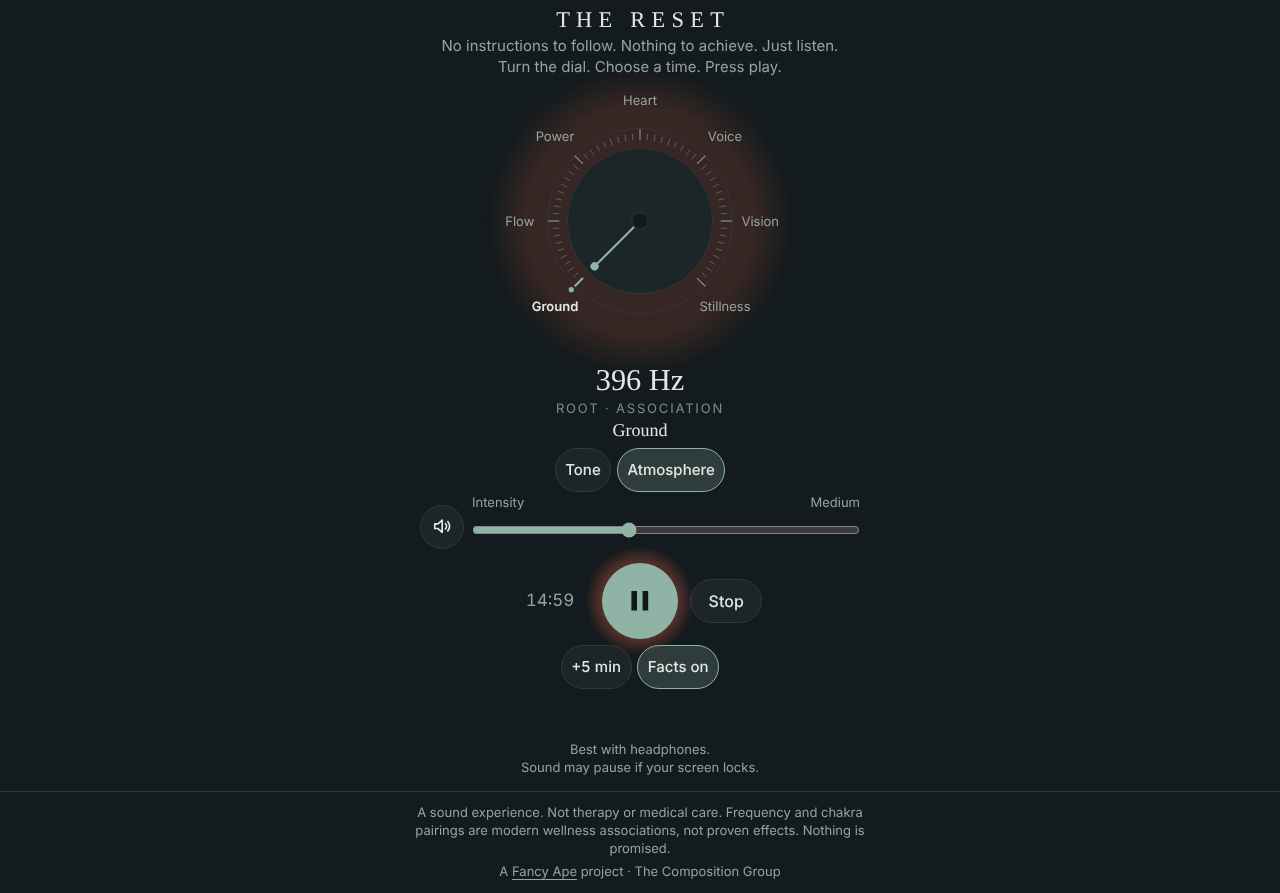
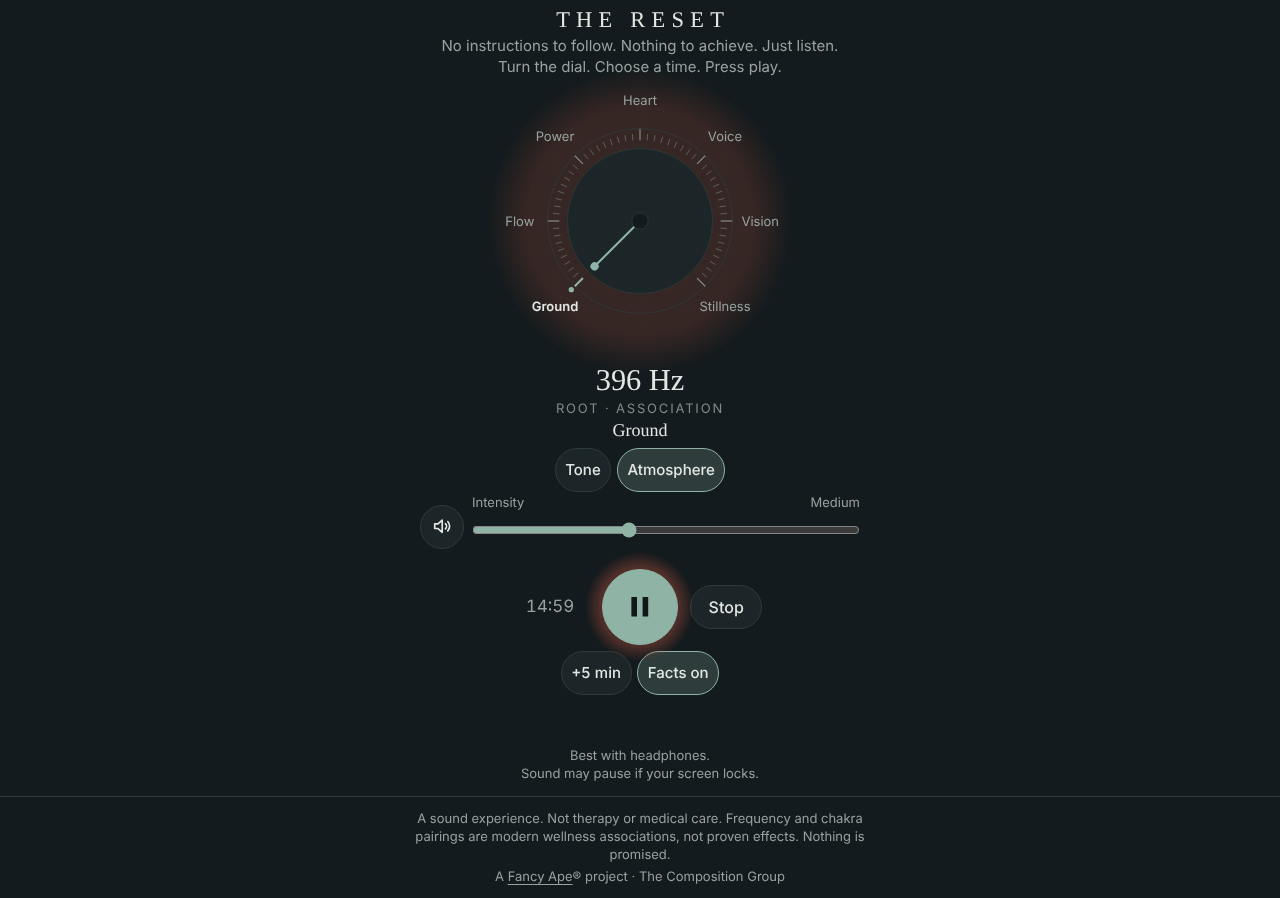
Time wheel: 44px touch targets, standard spinbutton keys; footer credit with ®
Claude-Session: https://claude.ai/code/session_01GARUu4aZWZHH9xWAKDJbQb

diff --git a/index.html b/index.html
@@ -81,18 +81,19 @@ button{cursor:pointer}
 .icon-btn svg{width:1.4rem;height:1.4rem}
 .icon-btn[data-muted="true"]{border-color:var(--accent);background:color-mix(in srgb,var(--accent) 22%,transparent)}
 .transport{display:grid;grid-template-columns:1fr auto 1fr;align-items:center;gap:.75rem;margin:.5rem 0 0}
-/* time wheel: three rows (one faded value above and below), same height as the row it sits in, never taller than Play */
-.wheel{--rh:1.5rem;justify-self:end;position:relative;width:5rem;height:calc(var(--rh) * 3);border-radius:.6rem;touch-action:none;user-select:none;-webkit-user-select:none;-webkit-tap-highlight-color:transparent;cursor:ns-resize;font-variant-numeric:tabular-nums}
-.wheel:focus-visible{outline:2px solid var(--brass);outline-offset:3px}
-.wview{position:absolute;inset:0;overflow:hidden;border-top:1px solid transparent}
+/* time wheel: three visible rows (one faded value above and below), as tall as the row it sits in. The box itself has 12px of invisible padding top and bottom (cancelled by negative margins) so each half is a 44px touch target. */
+.wheel{--rh:1.5rem;--pad:12px;justify-self:end;position:relative;width:5rem;height:calc(var(--rh) * 3 + var(--pad) * 2);margin:calc(var(--pad) * -1) 0;border-radius:.6rem;touch-action:none;user-select:none;-webkit-user-select:none;-webkit-tap-highlight-color:transparent;cursor:ns-resize;font-variant-numeric:tabular-nums}
+.wheel:focus-visible{outline:none}
+.wheel:focus-visible .wview{outline:2px solid var(--brass);outline-offset:3px;border-radius:.6rem}
+.wview{position:absolute;inset:var(--pad) 0;overflow:hidden;border-top:1px solid transparent}
 .wview::before{content:"";position:absolute;left:.4rem;right:.4rem;top:var(--rh);height:var(--rh);border-top:1px solid var(--line);border-bottom:1px solid var(--line);pointer-events:none}
 .wtrack{position:absolute;left:0;right:0;top:0;transform:translateY(calc(var(--rh) * (1 - var(--p,0))));transition:transform .18s ease-out}
 .wi{height:var(--rh);line-height:var(--rh);text-align:center;font-size:1.125rem;color:var(--ink);opacity:.4;font-weight:400;transition:opacity .18s ease-out}
 .wi.sel{font-weight:600}
 .wheel.drag .wtrack,.wheel.drag .wi{transition:none}
-.wunit{position:absolute;top:var(--rh);height:var(--rh);line-height:var(--rh);left:calc(50% + 1rem);font-size:.8125rem;color:var(--muted);pointer-events:none}
-.wclock{position:absolute;inset:0;display:grid;place-items:center;font-size:1.0625rem;color:var(--muted);visibility:hidden}
-.wheel.run{cursor:default}
+.wunit{position:absolute;top:calc(var(--pad) + var(--rh));height:var(--rh);line-height:var(--rh);left:calc(50% + 1rem);font-size:.8125rem;color:var(--muted);pointer-events:none}
+.wclock{position:absolute;inset:var(--pad) 0;display:grid;place-items:center;font-size:1.0625rem;color:var(--muted);visibility:hidden}
+.wheel.run{cursor:default;pointer-events:none}
 .wheel.run .wview,.wheel.run .wunit{visibility:hidden}
 .wheel.run .wclock{visibility:visible}
 .play{width:5.5rem;height:5.5rem;border-radius:50%;border:1.5px solid var(--accent);background:var(--accent);color:var(--accent-ink);display:grid;place-items:center;padding:0}
@@ -147,7 +148,7 @@ footer a{color:inherit;text-underline-offset:.2em;display:inline-block;min-heigh
   .qual{font-size:1.125rem}
   .seg{margin:.4rem 0 0}
   .mix{margin:.2rem 0 0}
-  .transport{margin:.3rem 0 0}
+  .transport{margin:.65rem 0 0}
   .playwrap{width:4.75rem;height:4.75rem}
   .play{width:4.75rem;height:4.75rem}
   .hint{margin:.3rem 0 0}
@@ -270,7 +271,7 @@ footer a{color:inherit;text-underline-offset:.2em;display:inline-block;min-heigh
 
 <footer>
   <p>A sound experience. Not therapy or medical care. Frequency and chakra pairings are modern wellness associations, not proven effects. Nothing is promised.</p>
-  <p class="credit">A <a href="https://fancyape.com" target="_blank" rel="noopener noreferrer">Fancy Ape</a> project · The Composition Group</p>
+  <p class="credit">A <a href="https://fancyape.com" target="_blank" rel="noopener noreferrer">Fancy Ape</a>® project · The Composition Group</p>
 </footer>
 
 <script>
@@ -438,14 +439,14 @@ wheelEl.addEventListener("pointermove", e => {
   if (!wDrag) return;
   const dy = e.clientY - wDrag.y;
   if (!wDrag.moved && Math.abs(dy) > 4){ wDrag.moved = true; wheelEl.classList.add("drag"); }
-  if (wDrag.moved){ wPos = clamp(wDrag.p - dy / (wheelEl.clientHeight / 3), 0, WN); paintWheel(); }
+  if (wDrag.moved){ wPos = clamp(wDrag.p - dy / wItems[0].offsetHeight, 0, WN); paintWheel(); }
 });
 const wheelEnd = e => {
   if (!wDrag) return;
   const d = wDrag; wDrag = null; wheelEl.classList.remove("drag");
   if (d.moved || e.type === "pointercancel"){ wheelTo(Math.round(wPos)); return; }
-  const r = wheelEl.getBoundingClientRect(), y = e.clientY - r.top;   /* a click on the faded value above or below */
-  if (y < r.height * .4) wheelStep(-1); else if (y > r.height * .6) wheelStep(1);
+  const r = wheelEl.getBoundingClientRect(), y = e.clientY - r.top;   /* a click above or below the selected value: each side is a 44px target */
+  if (y < r.height / 2 - 4) wheelStep(-1); else if (y > r.height / 2 + 4) wheelStep(1);
 };
 wheelEl.addEventListener("pointerup", wheelEnd); wheelEl.addEventListener("pointercancel", wheelEnd);
 wheelEl.addEventListener("wheel", e => {
@@ -459,8 +460,8 @@ wheelEl.addEventListener("wheel", e => {
 wheelEl.addEventListener("keydown", e => {
   if (S.active) return;
   const k = e.key; let moved = null;
-  if (k === "ArrowDown" || k === "ArrowRight" || k === "PageDown") moved = wheelStep(1);
-  else if (k === "ArrowUp" || k === "ArrowLeft" || k === "PageUp") moved = wheelStep(-1);
+  if (k === "ArrowUp" || k === "ArrowRight" || k === "PageUp") moved = wheelStep(1);   /* standard spinbutton: Up increases */
+  else if (k === "ArrowDown" || k === "ArrowLeft" || k === "PageDown") moved = wheelStep(-1);
   else if (k === "Home"){ wheelTo(0); moved = true; } else if (k === "End"){ wheelTo(WN); moved = true; }
   if (moved !== null) e.preventDefault();
 });

diff --git a/CHANGELOG.md b/CHANGELOG.md
@@ -2,7 +2,7 @@
 
 ## v0.4.0 — v-next (unreleased)
 Builds on v0.3.0 (the dial).
-- Changed (v-next.2, time wheel): the "Minutes" label and the 5/10/15/20/∞ pill row are gone. A vertical time wheel (iOS-picker style) sits left of Play: 5, 10, 15, 20, 30, 45, 60, ∞; default 15 (a saved time is kept). The selected value is centered and bold with a small "min" beside it (hidden on ∞), with one faded value above and below. It snaps to each value and takes touch drag, mouse wheel or trackpad, a click on the faded value, and arrow keys (Up/Left previous, Down/Right next, Home, End, PageUp/PageDown). `role="spinbutton"` with `aria-valuetext` such as "15 minutes" and a visible focus ring. While playing, the wheel locks and the same box shows the live mm:s countdown (h:mm:ss counting up for ∞); `role="timer"`. +5 min still updates it; +5 min and Facts now sit below Play so nothing above it moves. When stopped, the wheel shows the last chosen value. Spacing tightened.
+- Changed (v-next.2, time wheel): the "Minutes" label and the 5/10/15/20/∞ pill row are gone. A vertical time wheel (iOS-picker style) sits left of Play: 5, 10, 15, 20, 30, 45, 60, ∞; default 15 (a saved time is kept). The selected value is centered and bold with a small "min" beside it (hidden on ∞), with one faded value above and below. It snaps to each value and takes touch drag, mouse wheel or trackpad, a click on the faded value, and arrow keys (standard spinbutton keys: Up/Right/PageUp increase, Down/Left/PageDown decrease, Home = 5, End = ∞). `role="spinbutton"` with `aria-valuetext` such as "15 minutes" and a visible focus ring. While playing, the wheel locks and the same box shows the live mm:s countdown (h:mm:ss counting up for ∞); `role="timer"`. +5 min still updates it; +5 min and Facts now sit below Play so nothing above it moves. When stopped, the wheel shows the last chosen value. Spacing tightened. Each side of the wheel is a 44 px touch target (12 px of invisible padding above and below the visible wheel), and the footer credit now reads "A Fancy Ape® project · The Composition Group".
 - Changed (v-next.1, copy and layout): new header line "No instructions to follow. Nothing to achieve. Just listen." above the existing instruction line. The readout label reads "ROOT · ASSOCIATION" (and so on for every stop), smaller and lighter. A small "Minutes" label sits above the time pills. Two small lines under Play: "Best with headphones." and "Sound may pause if your screen locks." Footer keeps its required disclaimer and adds "A Fancy Ape project · The Composition Group" with a link to fancyape.com (a second tap-only external link). The footer now sits right after the content instead of at the bottom of the window, and the compact layout applies up to 860 px tall so Play stays in view. The speaker button was already a mute-only toggle (crossed-out when muted, aria-label Mute / Unmute); unchanged.
 - Changed: the volume slider is now **Intensity**. Device volume is the only volume control (output level is fixed). Low is a smooth, steady sound. High is a deeper pulse (the 10 s swell goes from steady up to about 90% deep) with a fuller atmosphere (octave below, upper harmonics and noise bed are raised in Atmosphere; Tone stays a pure sine and changes only its pulse). Changes ramp over about 0.15 s, so there are no clicks. Remembered between visits (default 40%). Mute stays. The glow and the Android in-breath tap follow the pulse depth.
 - New: **+5 min** during a timed session. Each tap adds 5 minutes with no pause or restart, and the tone keeps running. The 8 s end fade moves back with the new end time; if it had already started, the sound eases back up. In the final minute a quiet "Extend? +5" appears for 20 s and goes away if ignored. Not shown for ∞.

diff --git a/CLAUDE.md b/CLAUDE.md
@@ -12,7 +12,7 @@ These rules apply to every change to `index.html`, `README.md`, and `docs/`. If 
 - The frequencies and chakra names are modern wellness associations, not proven effects. The ring words (Ground, Flow, Power, Heart, Voice, Vision, Stillness) are names for the stops, not claims about what they do. Never write that a stop causes, improves, or helps anything.
 - Never describe a frequency as the natural resonance of a body part or organ. Never call a frequency "healing", "balancing", or "activating".
 - Each stop is three separate things, and copy must keep them apart: **acoustics** (the real frequency in Hz, a fact about the sound), **symbolism** (the modern chakra pairing, a cultural association), and **intention** (the ring word, an interpretive theme, not an effect).
-- The footer must be present on every screen, word for word: "A sound experience. Not therapy or medical care. Frequency and chakra pairings are modern wellness associations, not proven effects. Nothing is promised."
+- The footer must be present on every screen, word for word: "A sound experience. Not therapy or medical care. Frequency and chakra pairings are modern wellness associations, not proven effects. Nothing is promised." Under it, the credit line reads "A Fancy Ape® project · The Composition Group", with "Fancy Ape" linked (Rule 4). The ® is allowed here only: Fancy Ape is a registered mark.
 - Better / Same / Worse is a person's own tap, not evidence. No public effectiveness claims until independent review (Gate D).
 
 ### 2. Gentle sound, no forced breathing
